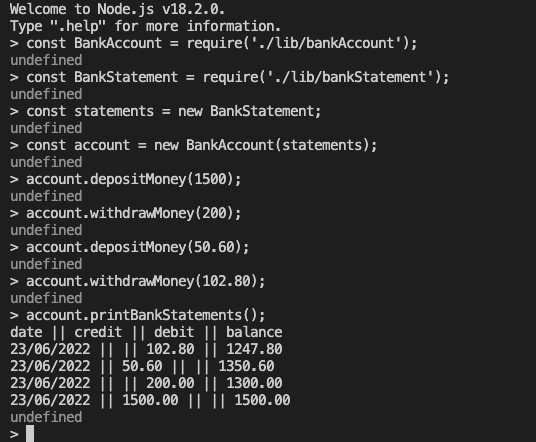
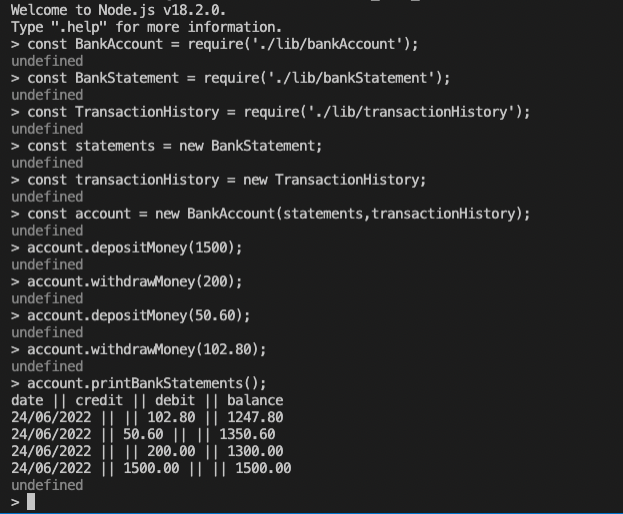
modified screenshots and README to reflect the changes made to the code

Changed region(s): [[0.0, 0.0, 0.8657, 1.0]]

diff --git a/README.md b/README.md
@@ -30,9 +30,10 @@ date || credit || debit || balance
 
 ## Approach
 
-It was decided to create 2 classes:
-* **BankAccount**, which will take care of the balance and methods related to change this value (deposit, withdraw)
-* **BankStatements**, which will take care of the statements and methods related (create them and print them). Transactions should include the date they happened in the required format (check 'acceptance criteria')
+It was decided to create 3 classes:
+* **BankAccount**, which will take care of the balance and methods related to change this value (deposit, withdraw). It has injected the 2 other classes
+* **BankStatements**, which will work as a 'statement generator' (same instance can be used by several accounts). Transactions should include the date they happened in the required format (check 'acceptance criteria')
+* **TransactionHistory**, which will store the transactions from one account and provide them to BankStatements class when printing them
 
 ## Getting started
 
@@ -53,11 +54,27 @@ npm install
 
 On node, require BankAccount class:
 ```
-const BankAccount = require('./bankAccount');
+const BankAccount = require('./lib/bankAccount');
+```
+Require BankStatement class:
+```
+const BankStatement = require('./lib/bankStatement');
+```
+Require Transaction History class:
+```
+const TransactionHistory = require('./lib/transactionHistory');
+```
+Create an instance of BankStatement:
+```
+const statements = new BankStatement;
+```
+Create an instance of TransactionHistory:
+```
+const transactionHistory = new TransactionHistory;
 ```
 Create a new bank account:
 ```
-const account = new BankAccount;
+const account = new BankAccount(statements, transactionHistory);
 ```
 Call `account.depositMoney(amount)` to deposit money, `account.withdrawMoney(amount)` to withdraw money and `account.printBankStatements()` to print the statements.
 
